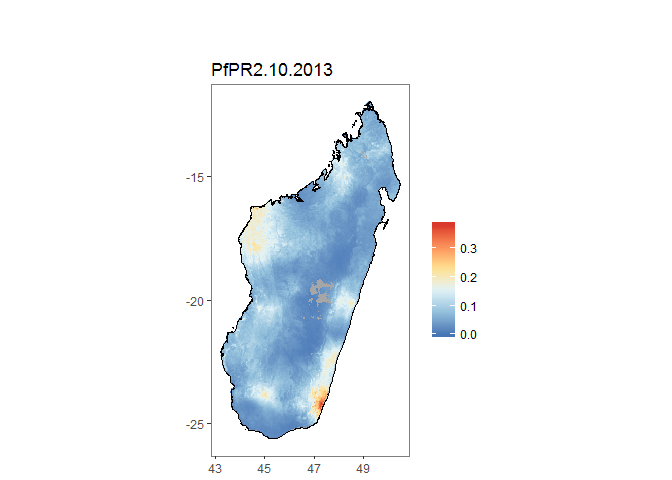
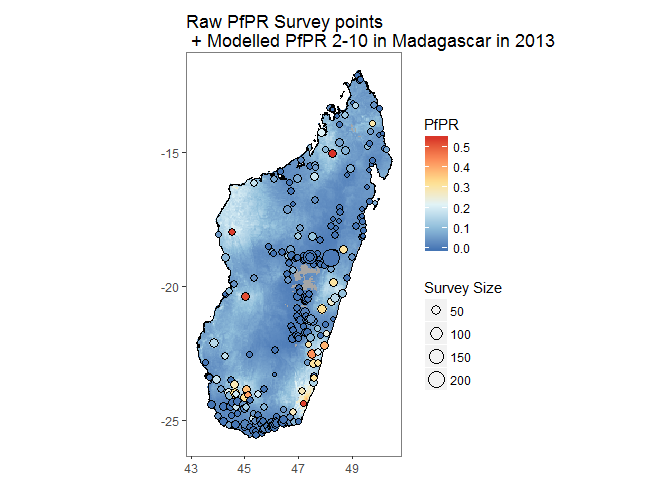
updated readme and minor tweaks to autoplot.MAPraster

diff --git a/README.md b/README.md
@@ -6,20 +6,29 @@ malariaAtlas
 Overview
 ========
 
+*blurb re what the package is and what it does*
+
 Available Data:
 ---------------
 
-### list\* Functions
-
 *blurb re what the data is and where it comes from*
+
+### list\* Functions
 
 `listData()` retrieves a list of available data to download.
 
-Use: \* listData(datatype = "points") OR listPoints() to see for which
-countries PR survey point data can be downloaded. \* use
-listData(datatype = "rasters") OR listRaster()to see rasters available
-to download. \* use listData(datatype = "shape") OR listShp() to see
-shapefiles available to download.
+Use:
+
+-   listData(datatype = "points") OR listPoints() to see for which
+    countries PR survey point data can be downloaded.
+
+-   use listData(datatype = "rasters") OR listRaster()to see rasters
+    available to download.
+
+-   use listData(datatype = "shape") OR listShp() to see shapefiles
+    available to download.
+
+<!-- -->
 
     listData(datatype = "points")
 
@@ -29,8 +38,8 @@ shapefiles available to download.
 
 ### is\_available
 
-`isAvailable` confirms whether or not PR data is available to download
-for a specified country.
+`isAvailable` confirms whether or not PR survey point data is available
+to download for a specified country.
 
 Check whether PR data is available for Madagascar:
 
@@ -160,8 +169,9 @@ downloaded shapefiles.
     MDG_shp <- as.MAPshp(MDG_shp)
     autoplot(MDG_shp)
 
-![](README_files/figure-markdown_strict/unnamed-chunk-13-1.png) N.B.
-Facet-wrapped option is also available for species stratification.
+![](README_files/figure-markdown_strict/unnamed-chunk-13-1.png)
+
+N.B. Facet-wrapped option is also available for species stratification.
 
     autoplot(MDG_shp,
              facet = TRUE,
@@ -178,7 +188,7 @@ surface & year, clipped to a given bounding box or shapefile
     MDG_PfPR2_10 <- getRaster(surface = "PfPR2-10", shp = MDG_shp, year = 2013)
 
 N.B. to use downloaded rasters and shapefiles directly with autoplot,
-use as.MAPraster() and as.MAPshp() to convert these to a data.frame.
+use as.MAPraster() and as.MAPshp() to convert these to data.frames.
 Alternatively autoplot\_MAPraster() will work directly with RasterLayer,
 RasterStack or RasterBrick objects downloaded with getRaster().
 
@@ -203,11 +213,7 @@ can be easily produced.
     MDG_PfPR2_10 <- getRaster(surface = "PfPR2-10", shp = MDG_shp, year = 2013)
     MDG_PfPR2_10_df <- as.MAPraster(MDG_PfPR2_10)
 
-    p <- autoplot(MDG_PfPR2_10_df, shp_df = MDG_shp_df)
-
-    ## $`0`
-
-![](README_files/figure-markdown_strict/unnamed-chunk-17-1.png)
+    p <- autoplot(MDG_PfPR2_10_df, shp_df = MDG_shp_df, printed = FALSE)
 
     pr <- getPR(country = c("Madagascar"), species = "Pf")
     p[[1]] +
@@ -216,14 +222,11 @@ can be easily produced.
      scale_fill_distiller(name = "PfPR", palette = "RdYlBu")+
      ggtitle("Raw PfPR Survey points\n + Modelled PfPR 2-10 in Madagascar in 2013")
 
-    ## Warning: Removed 38 rows containing missing values (geom_point).
+![](README_files/figure-markdown_strict/unnamed-chunk-17-1.png)
 
-![](README_files/figure-markdown_strict/unnamed-chunk-17-2.png)
+Basic Spatial utility tools
+---------------------------
 
-### Basic Spatial utility tools
+### extractRaster
 
-extractRaster
--------------
-
-zonalStats
-----------
+### zonalStats
